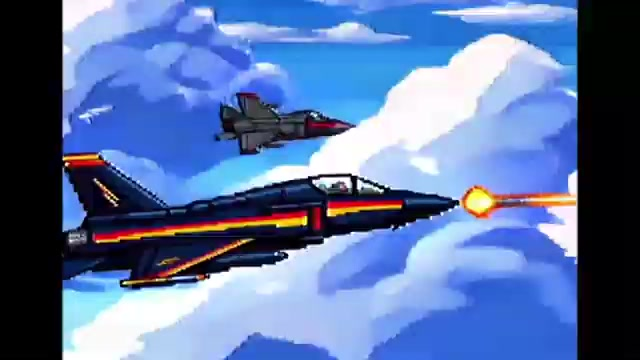
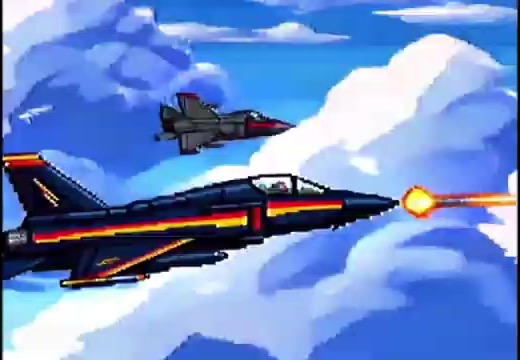
Fix black pillarbox bars in section backgrounds + static hazard pattern on social buttons
The AI-generated about-bg/follow-bg/game-bg source JPGs had baked-in black
bars on both edges (640x360 canvas with ~520px of actual art, centered).
background-size:cover scaled those bars along with the art, showing as dark
stripes on wide desktop viewports. Cropped all three images to their actual
content area (520x360) with sips.

Also replaced the single-direction animated stripe background on the Follow
section's social buttons with a static criss-cross hazard pattern: the
animation never visually moved in Zalan's own Chrome (confirmed via
getAnimations() it was running in devtools but not painting), so we dropped
motion and made the static pattern more visually interesting instead.

Local-only commit, not pushed (per the pause-Netlify-deploys agreement).

diff --git a/style.css b/style.css
@@ -488,20 +488,22 @@ a { color: inherit; text-decoration: none; }
   content: "";
   position: absolute;
   inset: -40%;
-  background-image: repeating-linear-gradient(
-    45deg,
-    rgba(255, 210, 63, 0.35) 0px,
-    rgba(255, 210, 63, 0.35) 8px,
-    transparent 8px,
-    transparent 24px
-  );
-  animation: stripe-drift 1s linear infinite;
+  background-image:
+    repeating-linear-gradient(
+      45deg,
+      rgba(255, 210, 63, 0.3) 0px,
+      rgba(255, 210, 63, 0.3) 6px,
+      transparent 6px,
+      transparent 20px
+    ),
+    repeating-linear-gradient(
+      -45deg,
+      rgba(255, 210, 63, 0.18) 0px,
+      rgba(255, 210, 63, 0.18) 6px,
+      transparent 6px,
+      transparent 20px
+    );
   z-index: 0;
-}
-
-@keyframes stripe-drift {
-  from { transform: translate(0, 0); }
-  to { transform: translate(33.94px, 33.94px); }
 }
 
 .social-card:hover {

diff --git a/index.html b/index.html
@@ -7,7 +7,7 @@
 <link rel="preconnect" href="https://fonts.googleapis.com">
 <link rel="preconnect" href="https://fonts.gstatic.com" crossorigin>
 <link href="https://fonts.googleapis.com/css2?family=Press+Start+2P&family=VT323&display=swap" rel="stylesheet">
-<link rel="stylesheet" href="style.css?v=3">
+<link rel="stylesheet" href="style.css?v=5">
 </head>
 <body>
 
